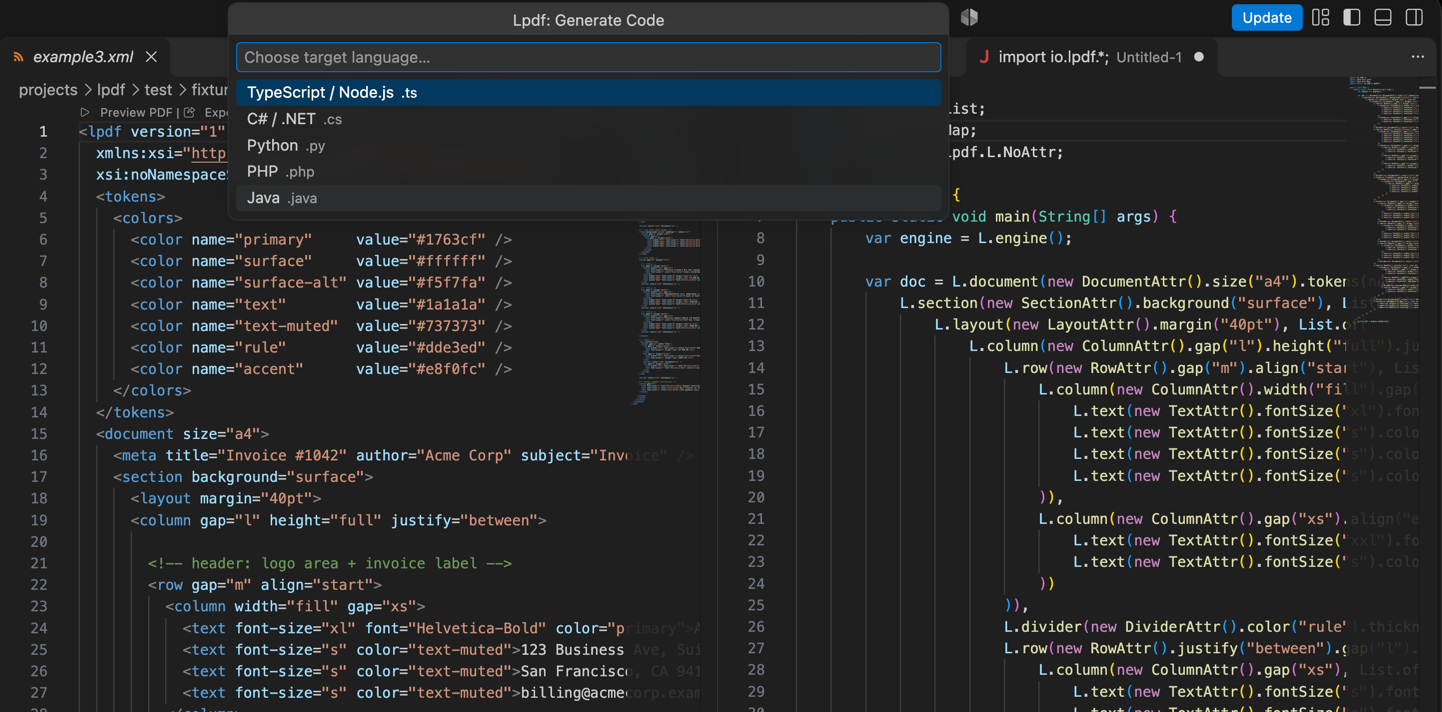
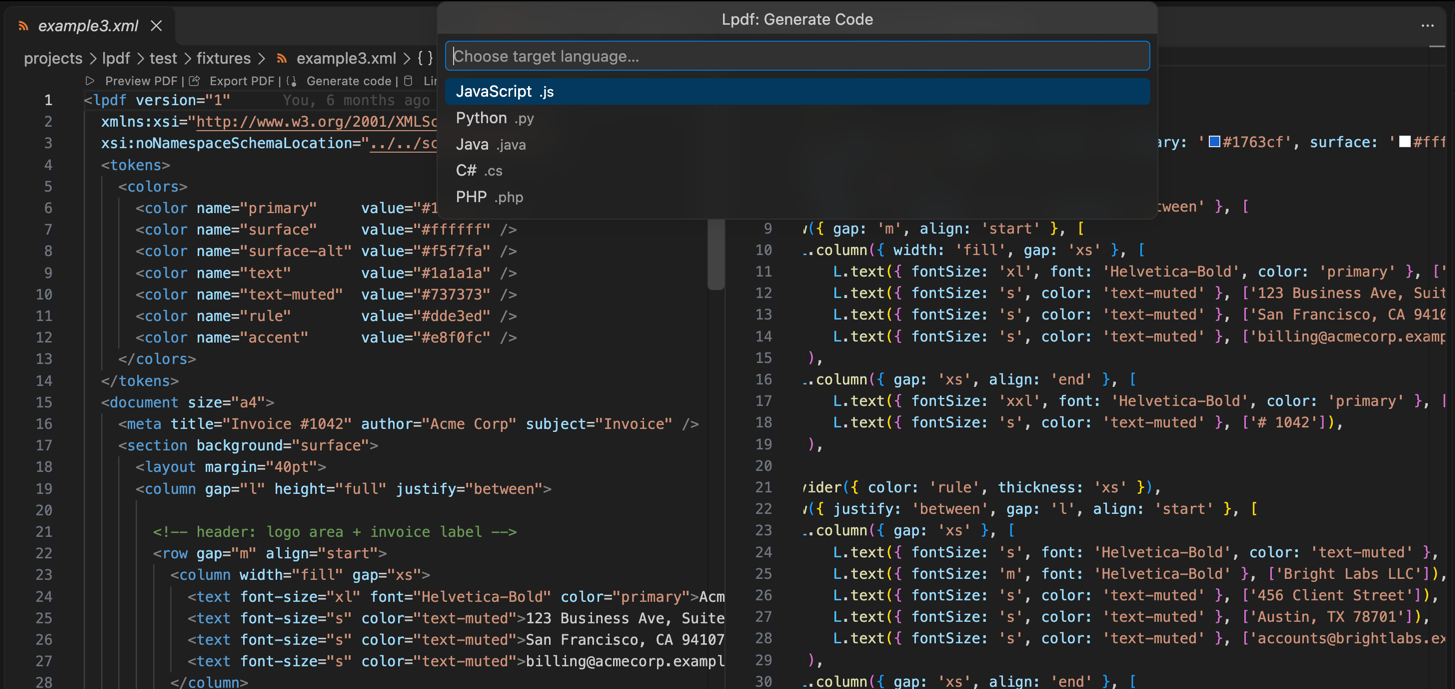
Name the SDKs by language in the generator, and keep a new file's view at the left
Generate Code offers JavaScript, Python, Java, C# and PHP, in that order, and the README's two lists follow. The command is titled Lpdf: Generate JavaScript from XML; its id stays, so keybindings keep working. The README's picture of the picker shows the new list.

The admission letter template loads its crest as an image, and its folder gets the assets.

The viewer scrolls a new file back to the left once every page's size is known. With a wide page among narrower ones, as in a report, PDF.js scrolled sideways to the first page's edge and left it with no margin.

Work: 508

diff --git a/src/manifest.test.ts b/src/manifest.test.ts
@@ -97,11 +97,11 @@ describe('the PDF compare commands in the manifest', () => {
 describe('the Generate commands in the manifest', () => {
   const codegenSource = readFileSync(join(__dirname, 'codegen.ts'), 'utf8');
   const languages = [
-    { command: 'lpdf.generateTs', title: 'Lpdf: Generate TypeScript from XML', label: 'TypeScript / Node.js', target: 'js' },
-    { command: 'lpdf.generateCs', title: 'Lpdf: Generate C# from XML', label: 'C# / .NET', target: 'dotnet' },
+    { command: 'lpdf.generateTs', title: 'Lpdf: Generate JavaScript from XML', label: 'JavaScript', target: 'js' },
     { command: 'lpdf.generatePy', title: 'Lpdf: Generate Python from XML', label: 'Python', target: 'python' },
-    { command: 'lpdf.generatePhp', title: 'Lpdf: Generate PHP from XML', label: 'PHP', target: 'php' },
     { command: 'lpdf.generateJava', title: 'Lpdf: Generate Java from XML', label: 'Java', target: 'java' },
+    { command: 'lpdf.generateCs', title: 'Lpdf: Generate C# from XML', label: 'C#', target: 'dotnet' },
+    { command: 'lpdf.generatePhp', title: 'Lpdf: Generate PHP from XML', label: 'PHP', target: 'php' },
   ];
 
   it('has a command for each language, Java among them, each generating its own target', () => {

diff --git a/src/codegen.ts b/src/codegen.ts
@@ -9,11 +9,11 @@ interface WasmCodegen {
 type Target = 'js' | 'dotnet' | 'python' | 'php' | 'java';
 
 const TARGETS: Array<{ label: string; description: string; target: Target; langId: string }> = [
-    { label: 'TypeScript / Node.js', description: '.ts',   target: 'js',     langId: 'typescript' },
-    { label: 'C# / .NET',            description: '.cs',   target: 'dotnet', langId: 'csharp'     },
+    { label: 'JavaScript',           description: '.js',   target: 'js',     langId: 'javascript' },
     { label: 'Python',               description: '.py',   target: 'python', langId: 'python'     },
-    { label: 'PHP',                  description: '.php',  target: 'php',    langId: 'php'        },
     { label: 'Java',                 description: '.java', target: 'java',   langId: 'java'       },
+    { label: 'C#',                   description: '.cs',   target: 'dotnet', langId: 'csharp'     },
+    { label: 'PHP',                  description: '.php',  target: 'php',    langId: 'php'        },
 ];
 
 let _wasm: WasmCodegen | undefined;

diff --git a/README.md b/README.md
@@ -86,7 +86,7 @@ The info button opens the two documents' properties, such as size, page count an
 
 ## Author PDFs
 
-Lpdf describes a document in XML, or in code, and renders a compact PDF that is identical on every platform. This extension is where you write the XML. Start from one of seven templates, from a one-page letter to a 117-page book, and watch the preview update each time you save. The schema checks, completes and explains your XML as you type, a JSON file supplies the data, and **Lpdf: Generate Code** turns the document into TypeScript, C#, Python, PHP or Java.
+Lpdf describes a document in XML, or in code, and renders a compact PDF that is identical on every platform. This extension is where you write the XML. Start from one of seven templates, from a one-page letter to a 117-page book, and watch the preview update each time you save. The schema checks, completes and explains your XML as you type, a JSON file supplies the data, and **Lpdf: Generate Code** turns the document into JavaScript, Python, Java, C# or PHP.
 
 ### Start from a template
 
@@ -147,9 +147,9 @@ Hover an element or an attribute for what it does, the attributes it takes, and 
 
 Run **Lpdf: Generate Code** to turn the saved XML into SDK code that builds the same document. It opens beside your template.
 
-![The Generate Code command offering five languages, with the XML on the left and the generated Java on the right, with numbered labels explained in the list below](docs/images/generate.png)
+![The Generate Code command offering five languages, with the XML on the left and the generated JavaScript on the right, with numbered labels explained in the list below](docs/images/generate.png)
 
-1. Choose the language: TypeScript, C#, Python, PHP or Java.
+1. Choose the language: JavaScript, Python, Java, C# or PHP.
 2. Your template.
 3. The code that builds the same document.
 
